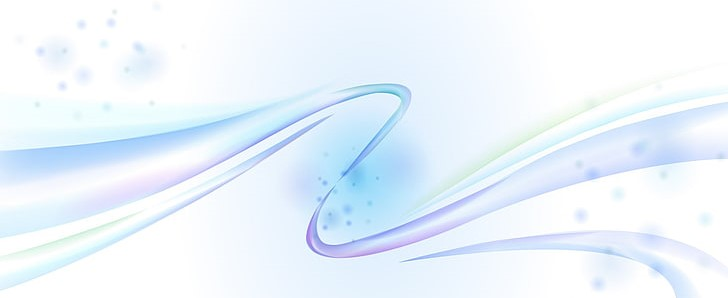
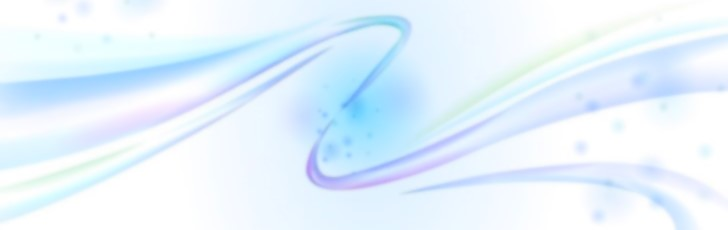
Update fullscreen player controls and artwork

diff --git a/templates/index.html b/templates/index.html
@@ -27,7 +27,7 @@ html,body{height:100%;background:var(--bg);color:var(--text);
   position:relative;
   padding-top:44px;  /* buffer gap under the floating header controls */
   background:
-    url('image/background.jpg?v=3') left top/cover no-repeat fixed,
+    url('image/background.jpg?v=4') left top/100% 100% no-repeat fixed,
     radial-gradient(130% 75% at 50% -18%, rgba(92,200,215,.12) 0%, transparent 58%),
     linear-gradient(180deg, #0e1520 0%, #0a1018 100%);
 }
@@ -97,22 +97,57 @@ html,body{height:100%;background:var(--bg);color:var(--text);
   opacity:0;transition:opacity .25s}
 #fs-overlay.fs-visible{opacity:1;pointer-events:auto}
 #guide-video-wrap.fs-idle{cursor:none}
-#fs-info{padding:20px 24px 0;
-  background:linear-gradient(to bottom,rgba(0,0,0,.75) 0%,transparent 100%)}
-#fs-info-title{font-size:20px;font-weight:700;color:#fff}
-#fs-info-ep{font-size:13px;color:rgba(255,255,255,.65);margin-top:3px}
-#fs-controls{padding:0 20px 20px;
-  background:linear-gradient(to top,rgba(0,0,0,.8) 0%,transparent 100%);
-  display:flex;align-items:center;gap:8px}
-#fs-spacer{flex:1}
+.fs-frame-art{position:absolute;inset:0;width:100%;height:100%;object-fit:fill;pointer-events:none}
+#fs-header-art,#fs-footer-art{z-index:0}
+#fs-info{position:absolute;inset:0;padding:0;background:none;pointer-events:none;z-index:1}
+#fs-info-title{position:absolute;left:8%;top:3%;width:75%;font-size:clamp(20px,2.3vw,44px);font-weight:700;color:#fff;white-space:nowrap;overflow:hidden;text-overflow:ellipsis}
+#fs-info-ep{position:absolute;left:8%;top:10.5%;width:75%;font-size:clamp(14px,1.45vw,28px);color:rgba(255,255,255,.9);white-space:nowrap;overflow:hidden;text-overflow:ellipsis}
+#fs-date-time,#fs-program-time,#fs-channel{position:absolute;top:21%;transform:translateY(-50%);font-size:clamp(12px,1.45vw,27px);font-weight:800;color:#104665;text-align:center;white-space:nowrap;overflow:hidden;text-overflow:ellipsis}
+#fs-date-time{left:2%;width:26%;text-align:center}
+#fs-program-time{left:30%;width:24%;text-align:center}
+#fs-channel{left:55%;width:19%;text-align:center}
+#fs-footer-info{position:absolute;inset:0;pointer-events:none;z-index:1}
+#fs-footer-program{position:absolute;left:7%;top:82%;width:67.5%;font-size:clamp(16px,1.8vw,34px);font-weight:600;color:#e9ef79;white-space:nowrap;overflow:hidden;text-overflow:ellipsis}
+#fs-mode-badge{position:absolute;right:5%;top:82%;font-size:clamp(16px,1.8vw,34px);color:#dce7f5;text-transform:uppercase}
+#fs-controls{position:absolute;inset:0;z-index:3;padding:0;background:none;display:block;pointer-events:none}
+#fs-controls > *{position:absolute;pointer-events:auto}
+#fs-skip-back,#fs-skip-forward,#fs-play{bottom:3.3%;height:5%;min-height:32px;padding:0 5px;font-size:clamp(11px,1vw,18px)}
+#fs-skip-back{left:6.05%;width:6.5%}
+#fs-skip-forward{left:12.55%;width:6.5%}
+#fs-controls .fs-skip{display:flex;align-items:center;justify-content:center;background:transparent;border:0;border-radius:0;box-shadow:none}
+#fs-controls .fs-skip{filter:drop-shadow(0 0 3px rgba(255,255,255,.45))}
+#fs-controls .fs-skip:hover,#fs-controls .fs-skip:focus-visible{background:transparent;filter:drop-shadow(0 0 7px rgba(255,255,255,.9))}
+.fs-skip-icon{display:block;width:36px;height:28px;background-image:url('image/10s.png');background-repeat:no-repeat;background-size:65px 28px;}
+.fs-skip-icon.skip-back{background-position:left center}
+.fs-skip-icon.skip-forward{background-position:right center}
+#fs-controls #fs-play{display:flex;align-items:center;justify-content:center;left:20.05%;width:6.5%;min-width:0;padding:0;background:transparent;border:0;border-radius:0;box-shadow:none}
+#fs-controls #fs-play:hover{background:transparent;filter:brightness(1.15)}
+.fs-play-icon{display:block;width:45px;height:45px;background-image:url('image/pause-play.png');background-repeat:no-repeat;background-size:74px 45px;}
+.fs-play-icon.is-paused{background-position:7px center}
+.fs-play-icon.is-playing{background-position:-34px center}
+.fs-skip-icon,.fs-play-icon{filter:invert(1) drop-shadow(0 1px 1px #000) drop-shadow(0 0 4px rgba(255,255,255,.65))}
+#fs-progress-left,#fs-progress-right{top:87.2%;height:3.8%;display:flex;align-items:center;justify-content:center;color:#fff;font-size:clamp(12px,1.2vw,22px);font-variant-numeric:tabular-nums;text-shadow:0 1px 2px #000}
+#fs-progress-left{left:4%;width:11.5%}
+#fs-progress-right{left:85%;width:11%}
+#fs-progress-bar{left:16%;top:87.45%;width:69%;height:3.3%;overflow:hidden;border-radius:5px;background:#244c55;box-shadow:inset 0 1px 3px #0008}
+#fs-progress-fill{position:absolute;inset:0 auto 0 0;width:0;background:#168044;border-radius:inherit}
+#fs-progress-scrub{position:absolute;inset:-9px 0;width:100%;height:calc(100% + 18px);margin:0;opacity:0;cursor:pointer;touch-action:none}
+#fs-progress-scrub:disabled{cursor:default}
+.fs-skip:disabled{opacity:.4;cursor:default}
+#fs-mute{left:76.5%;top:18%;width:4%;height:6.5%;min-width:30px;min-height:0;padding:0;background:transparent;border:0;color:transparent;font-size:0}
+#fs-mute.is-muted::after{content:"";position:absolute;left:56%;top:0;height:90%;width:5px;background:#fff;transform:translateX(-50%) rotate(42deg);border-radius:3px;box-shadow:0 0 2px rgba(0,0,0,.8)}
+#fs-live{left:auto;right:5%;top:82.5%;bottom:auto;min-height:34px}
+#fs-tivo-play{left:63%;bottom:3%;min-height:34px}
+#fs-controls #fs-exit{right:4%;top:calc(17.85% + 3px);width:5%;height:6.5%;min-height:0;padding:0;display:flex;align-items:center;justify-content:center;background:transparent;border:0;border-radius:0;box-shadow:none}
+#fs-controls #fs-exit:hover{background:transparent;filter:brightness(1.2)}
+.fs-exit-icon{display:block;width:44px;height:44px;background-color:#0b4c6c;filter:blur(.65px);mask:url('image/exit.png?v=2') center/contain no-repeat;-webkit-mask:url('image/exit.png?v=2') center/contain no-repeat}
 .fs-btn{background:rgba(255,255,255,.15);border:1px solid rgba(255,255,255,.25);
   border-radius:6px;color:#fff;cursor:pointer;padding:7px 13px;font-size:13px;
   transition:background .15s;white-space:nowrap}
 .fs-btn:hover{background:rgba(255,255,255,.3)}
-#fs-vol{flex:0 0 100px;accent-color:#fff}
 #fs-mini-guide{
   position:absolute;left:50%;transform:translate(-50%,6px);
-  width:min(86vw,760px);bottom:74px;z-index:12;
+  width:min(86vw,760px);bottom:22%;z-index:12;
   background:linear-gradient(180deg,rgba(12,19,30,.58) 0%,rgba(8,13,22,.52) 100%);
   border:1px solid rgba(159,192,227,.24);border-radius:8px;
   box-shadow:0 10px 30px rgba(0,0,0,.32);
@@ -509,7 +544,6 @@ textarea{resize:vertical;min-height:80px;font-family:inherit}
 #guide-video-error .error-vid{
   position:absolute;inset:0;width:100%;height:100%;object-fit:cover;
 }
-#fs-overlay{display:none!important}
 #guide-video-brb {
   position:absolute;inset:0;display:none!important;flex-direction:column;
   align-items:center;justify-content:center;gap:14px;background:#000;
@@ -918,9 +952,18 @@ textarea{resize:vertical;min-height:80px;font-family:inherit}
             <div class="osd-name"></div>
           </div>
           <div id="fs-overlay">
+            <img id="fs-header-art" class="fs-frame-art" src="{{ url_for('serve_image_asset', filename='channel-header.png') }}" alt="">
+            <img id="fs-footer-art" class="fs-frame-art" src="{{ url_for('serve_image_asset', filename='player-footer.png') }}" alt="">
             <div id="fs-info">
               <div id="fs-info-title"></div>
               <div id="fs-info-ep"></div>
+              <div id="fs-date-time"></div>
+              <div id="fs-program-time"></div>
+              <div id="fs-channel"></div>
+            </div>
+            <div id="fs-footer-info">
+              <div id="fs-footer-program"></div>
+              <div id="fs-mode-badge"></div>
             </div>
             <div id="fs-mini-guide">
               <div id="fs-mini-guide-title">Channel Surf</div>
@@ -928,13 +971,20 @@ textarea{resize:vertical;min-height:80px;font-family:inherit}
               <div id="fs-mini-guide-list"></div>
             </div>
             <div id="fs-controls">
-              <button class="fs-btn" id="fs-play" onclick="guideTogglePlay()">▶</button>
-              <button class="fs-btn" id="fs-mute" onclick="guideToggleMute()">🔇</button>
-              <input type="range" id="fs-vol" min="0" max="1" step="0.02" value="1"
-                oninput="guideSetVolume(this.value)">
-              <button class="fs-btn" id="fs-live" onclick="guideSeekLive()" style="display:none">📡 Live</button>
-              <span id="fs-spacer"></span>
-              <button class="fs-btn" id="fs-exit" onclick="guideFullscreen()">⛶ Exit</button>
+              <span id="fs-progress-left">0:00</span>
+              <div id="fs-progress-bar">
+                <div id="fs-progress-fill"></div>
+                <input id="fs-progress-scrub" type="range" min="0" max="1000" step="1"
+                  value="0" oninput="guideScrubFromFullscreen(this.value)" aria-label="Playback position">
+              </div>
+              <span id="fs-progress-right">0:00</span>
+              <button class="fs-btn fs-skip" id="fs-skip-back" onclick="guideSeekBy(-10)" title="Back 10 seconds" aria-label="Back 10 seconds"><span class="fs-skip-icon skip-back" aria-hidden="true"></span></button>
+              <button class="fs-btn fs-skip" id="fs-skip-forward" onclick="guideSeekBy(10)" title="Forward 10 seconds" aria-label="Forward 10 seconds"><span class="fs-skip-icon skip-forward" aria-hidden="true"></span></button>
+              <button class="fs-btn" id="fs-play" onclick="guideTogglePlay()" title="Play or pause" aria-label="Play"><span id="fs-play-icon" class="fs-play-icon is-paused" aria-hidden="true"></span></button>
+              <button class="fs-btn" id="fs-mute" onclick="guideToggleMute()" title="Mute or unmute" aria-label="Mute"></button>
+              <button class="fs-btn" id="fs-live" onclick="guideSeekLive()" style="display:none">Live</button>
+              <button class="fs-btn" id="fs-tivo-play" onclick="playNow(true)" style="display:none">Replay</button>
+              <button class="fs-btn" id="fs-exit" onclick="guideFullscreen()" title="Exit fullscreen" aria-label="Exit fullscreen"><span class="fs-exit-icon" aria-hidden="true"></span></button>
             </div>
           </div>
         </div>
@@ -1315,6 +1365,7 @@ const _initialGuideDate = new Date();
 let _guideViewStart = new Date(_initialGuideDate.getFullYear(), _initialGuideDate.getMonth(), _initialGuideDate.getDate()).getTime();
 let _guideData      = null;        // { start, end, channels }
 let _selectedProg   = null;        // currently highlighted program
+let _playerMode     = 'none';      // live preview or TiVo playback
 let _selectedCh     = null;        // channel of selected program
 let _navChIdx       = 0;
 let _navProgIdx     = 0;
@@ -1714,6 +1765,7 @@ function hideNoProgrammingPreview() {
 
 function selectNoProgramming(ch, blockEl) {
   clearTimeout(_liveDebounce);
+  _playerMode = 'none';
   _selectedProg = null;
   _selectedCh = ch;
   clearTimeout(_autoAdvanceTimer);
@@ -1964,6 +2016,7 @@ function selectProgram(p, ch, blockEl, openFullscreen = false) {
   _selectedCh   = ch;
   const nowMs  = Date.now();
   const isLive = p.start_time <= nowMs && p.end_time > nowMs;
+  _playerMode = isLive ? 'live' : 'tivo';
   if (openFullscreen && isLive) requestGuideFullscreen();
 
   // ── Info panel
@@ -2030,6 +2083,20 @@ function selectProgram(p, ch, blockEl, openFullscreen = false) {
   const fsEp    = document.getElementById('fs-info-ep');
   if (fsTitle) fsTitle.textContent = p.show_title || p.title || '';
   if (fsEp)    fsEp.textContent    = epInfo;
+  const fsProgramTime = document.getElementById('fs-program-time');
+  const fsChannel = document.getElementById('fs-channel');
+  const fsFooterProgram = document.getElementById('fs-footer-program');
+  const fsMode = document.getElementById('fs-mode-badge');
+  const fsTivoPlay = document.getElementById('fs-tivo-play');
+  if (fsProgramTime) fsProgramTime.textContent = `${fmt(p.start_time)} - ${fmt(p.end_time)}`;
+  if (fsChannel) fsChannel.textContent = `Ch ${ch.number} ${ch.name}`;
+  if (fsFooterProgram) fsFooterProgram.textContent = p.show_title || p.title || '';
+  if (fsMode) {
+    fsMode.textContent = isLive ? 'LIVE' : 'TiVo';
+    fsMode.style.display = isLive ? 'none' : 'block';
+  }
+  if (fsTivoPlay) fsTivoPlay.style.display = (!isLive && p.rating_key) ? 'inline-flex' : 'none';
+  _updateFsHeaderClock();
 
   // Highlight row + block
   document.querySelectorAll('.guide-ch-row.row-selected').forEach(r => r.classList.remove('row-selected'));
@@ -2296,11 +2363,21 @@ function updateVideoCtrlState() {
   document.getElementById('vctr-play').textContent = playTxt;
   document.getElementById('vctr-mute').textContent = muteTxt;
   const fsPlay = document.getElementById('fs-play');
+  const fsPlayIcon = document.getElementById('fs-play-icon');
   const fsMute = document.getElementById('fs-mute');
-  const fsVol  = document.getElementById('fs-vol');
-  if (fsPlay) fsPlay.textContent = playTxt;
-  if (fsMute) fsMute.textContent = muteTxt;
-  if (fsVol)  fsVol.value = video.volume;
+  if (fsPlay) {
+    fsPlay.setAttribute('aria-label', video.paused ? 'Play' : 'Pause');
+    fsPlay.title = video.paused ? 'Play' : 'Pause';
+  }
+  if (fsPlayIcon) {
+    fsPlayIcon.classList.toggle('is-paused', video.paused);
+    fsPlayIcon.classList.toggle('is-playing', !video.paused);
+  }
+  if (fsMute) {
+    fsMute.classList.toggle('is-muted', video.muted);
+    fsMute.title = video.muted ? 'Unmute' : 'Mute';
+    fsMute.setAttribute('aria-label', video.muted ? 'Unmute' : 'Mute');
+  }
 }
 
 function guideTogglePlay() {
@@ -2357,6 +2434,8 @@ function guideFullscreen() {
 const _gvideo = document.getElementById('guide-video');
 _gvideo.addEventListener('play',  updateVideoCtrlState);
 _gvideo.addEventListener('pause', updateVideoCtrlState);
+_gvideo.addEventListener('timeupdate', _updateFsPlaybackBar);
+_gvideo.addEventListener('durationchange', _updateFsPlaybackBar);
 _gvideo.addEventListener('waiting', () => {
   if (document.getElementById('guide-video-error').style.display !== 'flex') {
     document.getElementById('guide-video-spinner').style.display = 'flex';
@@ -2370,6 +2449,7 @@ _gvideo.addEventListener('playing', () => {
 // ── Fullscreen overlay controls
 let _fsIdleTimer = null;
 let _fsGuideTimer = null;
+let _fsClockTimer = null;
 let _fsPendingChIdx = null;
 let _fsPendingProgIdx = null;
 
@@ -2393,17 +2473,81 @@ function _updateFsMiniGuideHint() {
     : 'Arrow keys flip channels';
 }
 
+function _updateFsHeaderClock() {
+  const clock = document.getElementById('fs-date-time');
+  if (clock) clock.textContent = new Date().toLocaleString(undefined, {
+    weekday: 'short', month: 'short', day: 'numeric', hour: 'numeric', minute: '2-digit'
+  });
+  _updateFsPlaybackBar();
+}
+
+function _formatFsDuration(seconds) {
+  const total = Math.max(0, Math.floor(Number(seconds) || 0));
+  const hours = Math.floor(total / 3600);
+  const minutes = Math.floor((total % 3600) / 60);
+  const secs = total % 60;
+  return hours ? `${hours}:${String(minutes).padStart(2, '0')}:${String(secs).padStart(2, '0')}`
+    : `${minutes}:${String(secs).padStart(2, '0')}`;
+}
+
+function _updateFsPlaybackBar() {
+  const fill = document.getElementById('fs-progress-fill');
+  const scrub = document.getElementById('fs-progress-scrub');
+  const left = document.getElementById('fs-progress-left');
+  const right = document.getElementById('fs-progress-right');
+  const back = document.getElementById('fs-skip-back');
+  const forward = document.getElementById('fs-skip-forward');
+  if (!fill || !scrub || !left || !right) return;
+
+  const video = document.getElementById('guide-video');
+  const prog = _selectedProg;
+  const live = _playerMode === 'live';
+  const actualDuration = Number.isFinite(video.duration) && video.duration > 0
+    ? video.duration : 0;
+  const duration = live
+    ? Math.max(1, (prog ? prog.end_time - prog.start_time : 1) / 1000)
+    : (actualDuration || (prog && prog.duration_ms ? prog.duration_ms / 1000 : 0));
+  const elapsed = Math.max(0, Number.isFinite(video.currentTime) ? video.currentTime : 0);
+  const ratio = duration ? Math.min(1, elapsed / duration) : 0;
+  fill.style.width = `${ratio * 100}%`;
+  scrub.value = String(Math.round(ratio * 1000));
+  const canSeek = !live && actualDuration > 0 && video.style.display !== 'none';
+  scrub.disabled = !canSeek;
+  if (back) back.disabled = !canSeek;
+  if (forward) forward.disabled = !canSeek;
+
+  left.textContent = _formatFsDuration(elapsed);
+  right.textContent = _formatFsDuration(duration);
+}
+
+function guideScrubFromFullscreen(value) {
+  if (_playerMode !== 'tivo') return;
+  const video = document.getElementById('guide-video');
+  if (video.style.display === 'none' || !Number.isFinite(video.duration) || video.duration <= 0) return;
+  video.currentTime = Math.max(0, Math.min(1, Number(value) / 1000)) * video.duration;
+  _updateFsPlaybackBar();
+}
+
+function guideSeekBy(seconds) {
+  if (_playerMode !== 'tivo') return;
+  const video = document.getElementById('guide-video');
+  if (video.style.display === 'none' || !Number.isFinite(video.duration) || video.duration <= 0) return;
+  video.currentTime = Math.max(0, Math.min(video.duration, video.currentTime + seconds));
+  _updateFsPlaybackBar();
+}
+
 function _showFsControls() {
   const overlay = document.getElementById('fs-overlay');
   const wrap    = document.getElementById('guide-video-wrap');
   if (!document.fullscreenElement) return;
   overlay.classList.add('fs-visible');
   wrap.classList.remove('fs-idle');
+  _updateFsHeaderClock();
   clearTimeout(_fsIdleTimer);
   _fsIdleTimer = setTimeout(() => {
     overlay.classList.remove('fs-visible');
     wrap.classList.add('fs-idle');
-  }, 3000);
+  }, 10000);
 }
 
 function _findLiveProgIdx(ch) {
@@ -2526,26 +2670,37 @@ document.addEventListener('fullscreenchange', () => {
   const panel = document.getElementById('fs-mini-guide');
   if (isFs) {
     _initFsPendingSelection();
+    _updateFsHeaderClock();
+    clearInterval(_fsClockTimer);
+    _fsClockTimer = setInterval(_updateFsHeaderClock, 1000);
     _showFsControls();
-    if (isFsGuideMode()) showFsMiniGuide();
   } else {
     overlay.classList.remove('fs-visible');
     wrap.classList.remove('fs-idle');
     if (panel) panel.classList.remove('visible');
     clearTimeout(_fsIdleTimer);
     clearTimeout(_fsGuideTimer);
+    clearInterval(_fsClockTimer);
+    _fsClockTimer = null;
     _fsPendingChIdx = null;
     _fsPendingProgIdx = null;
   }
 });
 
-document.getElementById('guide-video-wrap').addEventListener('mousemove', () => {
+const _fsActivityWrap = document.getElementById('guide-video-wrap');
+['pointermove', 'pointerdown', 'touchstart'].forEach(eventName => {
+  _fsActivityWrap.addEventListener(eventName, () => {
+    if (document.fullscreenElement) _showFsControls();
+  }, { passive: true });
+});
+document.addEventListener('keydown', () => {
   if (document.fullscreenElement) _showFsControls();
-}, { passive: true });
+}, true);
 
 // ── Play Now (non-live: load into guide player from start)
 function playNow(openFullscreen = false) {
   if (!_selectedProg || !_selectedProg.rating_key) return;
+  _playerMode = 'tivo';
   if (openFullscreen) requestGuideFullscreen();
   const ratingKey = _selectedProg.rating_key;
   // Destroy any live stream and load this item from start
